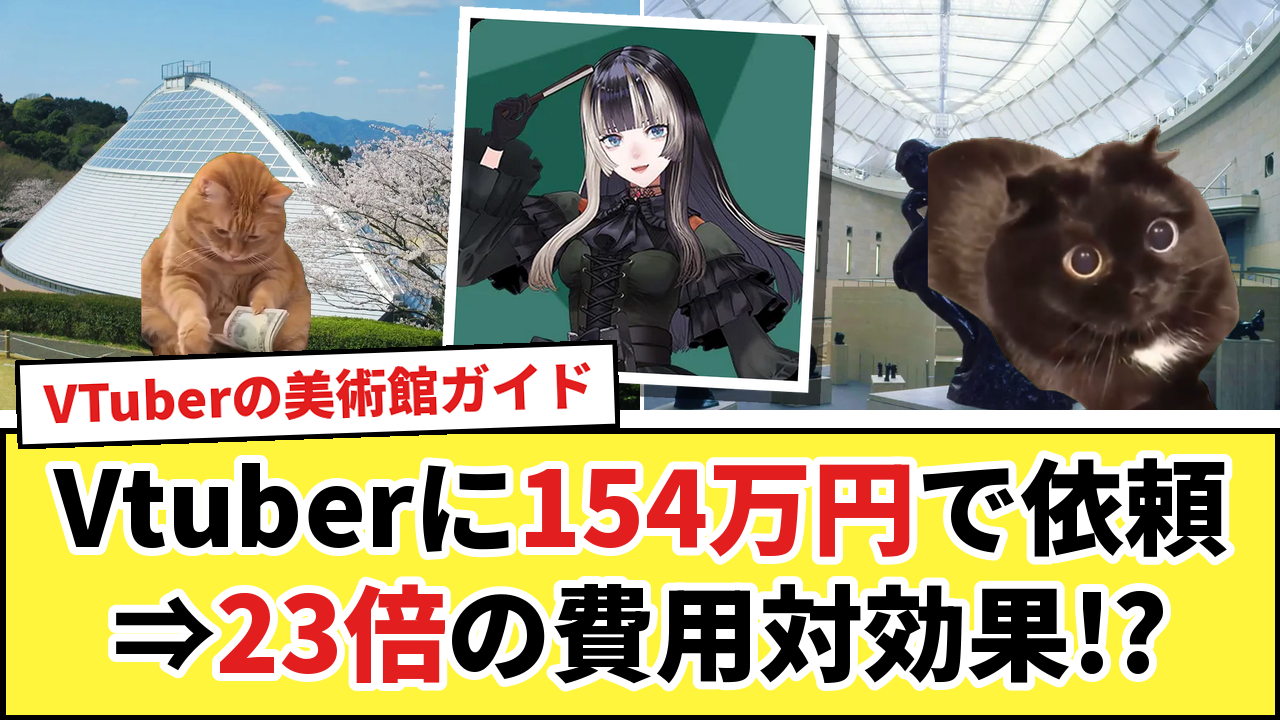
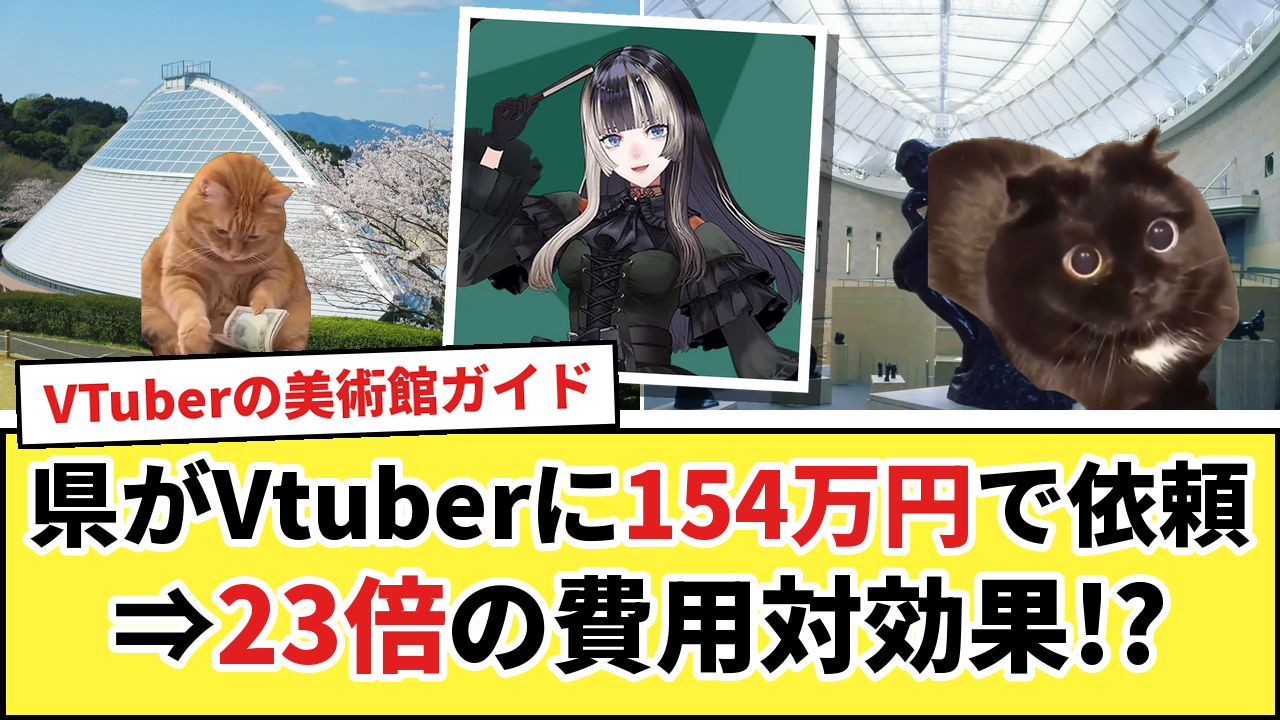
Video 39 thumb A: 県がVtuberに
Claude-Session: https://claude.ai/code/session_011g9CsrfFD5YswfNSvNDW39

Changed region(s): [[0.0, 0.6111, 1.0, 0.9778]]

diff --git a/catmeme/make_thumb_bronco_ikea_raden.py b/catmeme/make_thumb_bronco_ikea_raden.py
@@ -77,7 +77,7 @@ def raden_a2():
              ("money_counting_orange_cat", 1.0, 230, 410, 300, False),
              [("surprise_big_pupils_cat", 1.0, 1090, 410, 300, True)],
              "VTuberの美術館ガイド",
-             [("Vtuberに", BK), ("154万円", R), ("で依頼", BK)], [("⇒", BK), ("23倍", R), ("の費用対効果!?", BK)], split=640, size=104)
+             [("県がVtuberに", BK), ("154万円", R), ("で依頼", BK)], [("⇒", BK), ("23倍", R), ("の費用対効果!?", BK)], split=640, size=104)
     p = os.path.join(T.HERE, "thumbs", "39_raden_thumb_a.png")
     img = Image.open(p).convert("RGBA")
     r = Image.open(os.path.join(T.HERE, "parts", "39_raden", "p_raden.png")).convert("RGBA")
